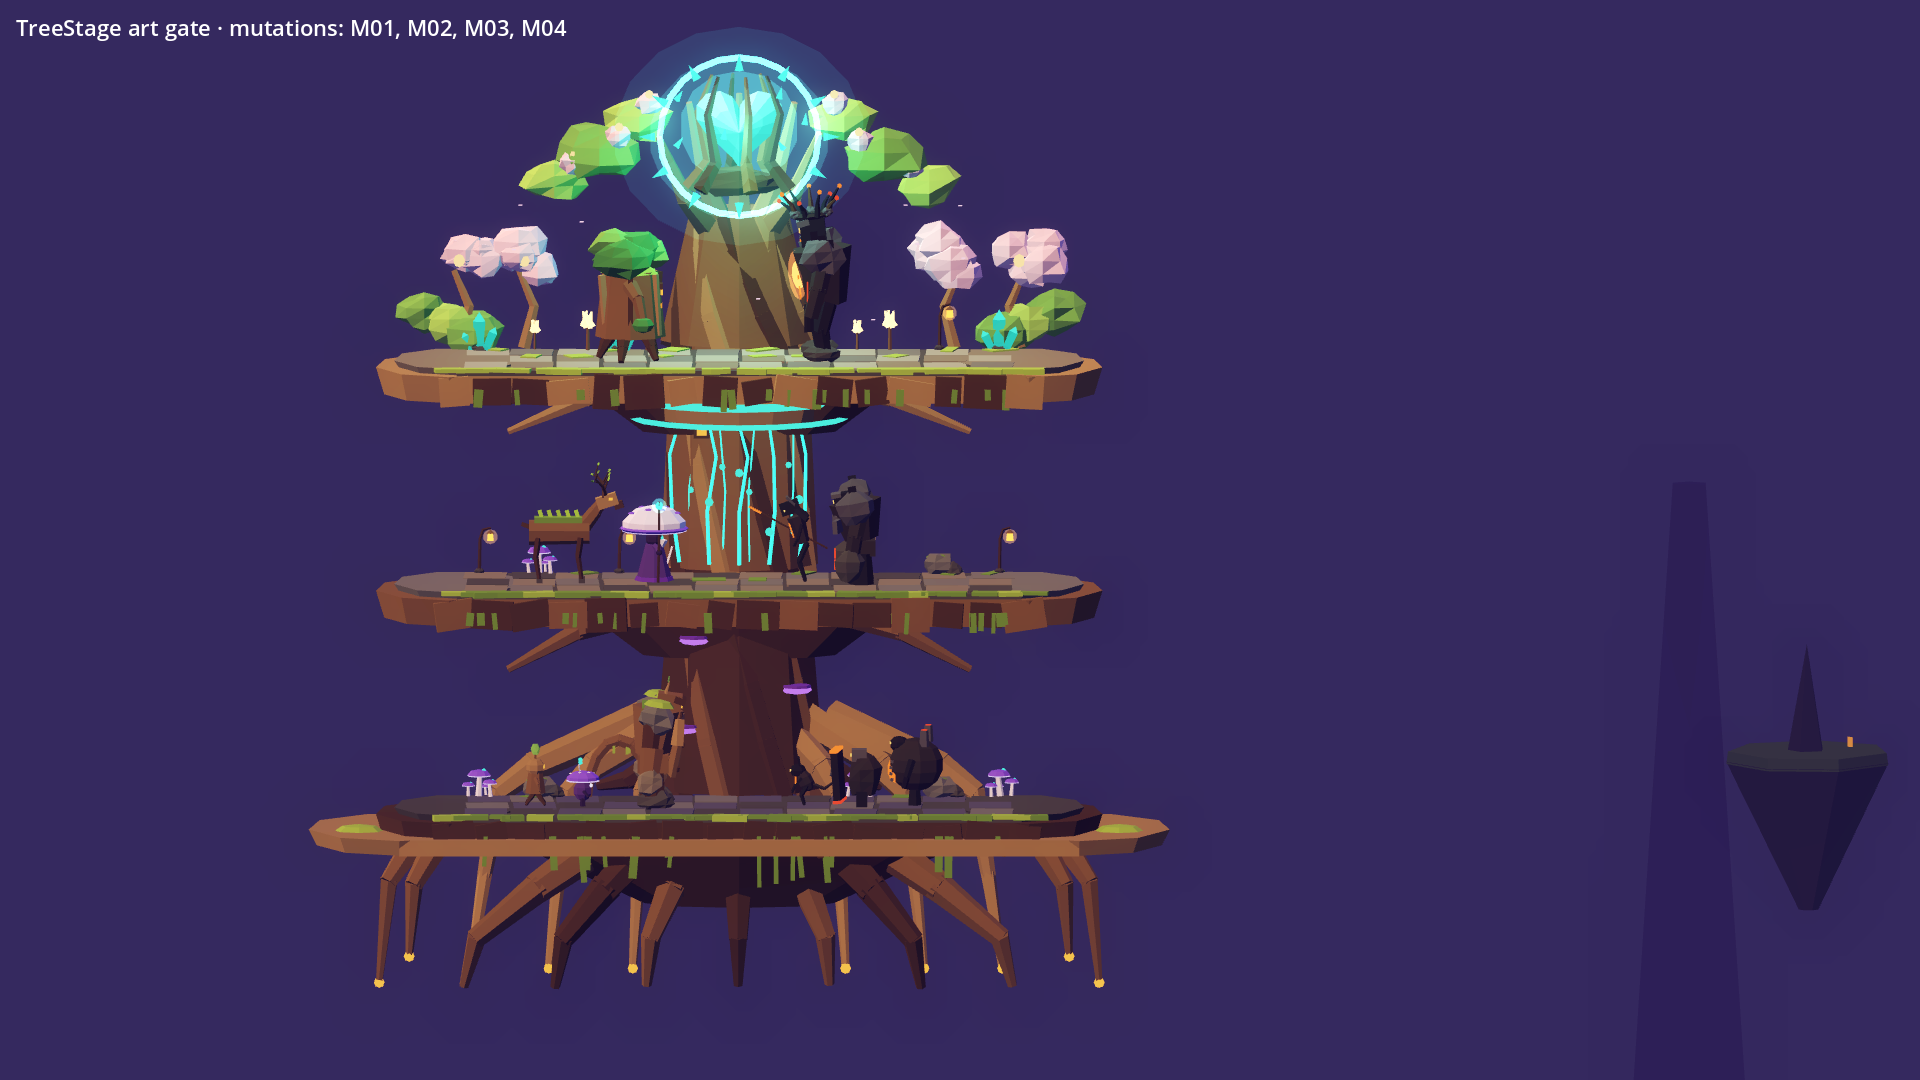
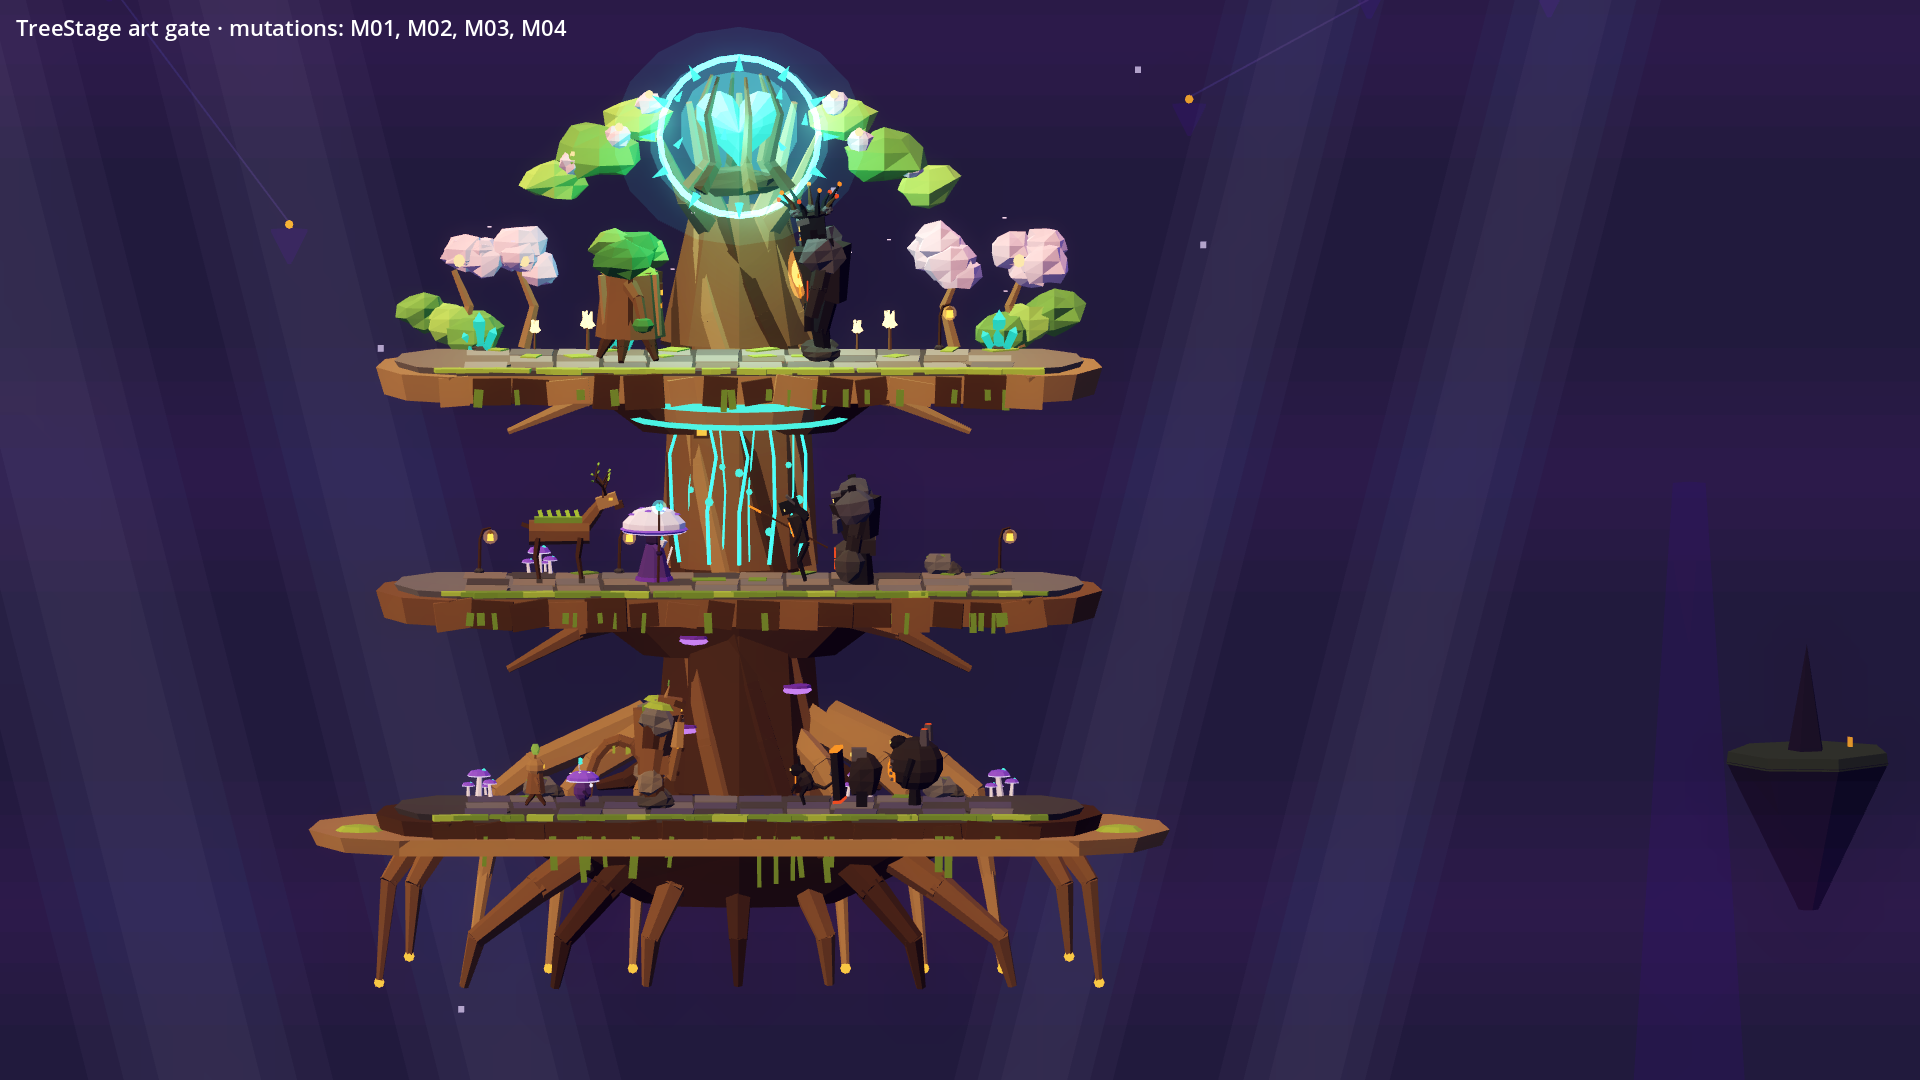
Heart health visual (set_health/hurt) and a layered battle backdrop
stage.heart roots carry HeartVisual: health bands drive cracks, halo, shards,
tint, light and pulse rate (flicker when low, none under reduced motion);
hurt() flashes the cracks red, bursts fx.heart_damage and shakes briefly.
stage.backdrop gains far route islands with tiny fog-free fires, soft light
shafts and mist bands (stacked low-alpha layers) and slow far motes; no
lights. Epilog lost now uses set_health. Heart strip scene, tests 19/19,
battle captures (1080p + portrait, boss + midbattle).

Claude-Session: https://claude.ai/code/session_014NxcUrdW69Hpwat6boxt2N

diff --git a/docs/SCENE_ASSEMBLY.md b/docs/SCENE_ASSEMBLY.md
@@ -27,6 +27,7 @@ var badge_y := VisualSlots.head_height("unit.B01")   # hp/attack-badge (2D-overl
 | `has_clip(state)` | Rig: true hvis der findes et rigtigt clip. Proxy: true for alle tilstande (proceduralt er dens clip). Manglende clip spiller stadig procedural + `finished`. |
 | `snap(state)` | Skip/load: sæt slutpose med det samme (`death` = skjult, ellers idle). |
 | `UnitAnimator.reduced_motion` (static) | Mindre udsving, ingen knockback-rotation; sæt fra settings. |
+| `heart.set_health(ratio)` / `heart.hurt(amount_ratio)` (roden af `stage.heart` har scriptet `HeartVisual`) | `set_health`: ≥ 0,66 lys og fuld halo; 0,33–0,66 få revner, lidt mørkere, langsommere puls; < 0,33 mange revner, kold tone, flimmer (ikke ved reduced motion), langsom puls, ingen halo. `hurt`: revnerne blinker rødt, `fx.heart_damage`-skår (skaleret), kort rystelse (ikke ved reduced motion), derefter tilbage til helbredstilstanden. Kald fx `heart.call("set_health", float(hp) / max_hp)` efter hver ændring. |
 | `VisualSlots.footprint_radius(slot_id) -> float` | Radius (m, 0,35–1,7) til en fod-ring; målt på det viste visual (proxy eller model), cachet, uafhængigt af facing. |
 | `VisualSlots.make("fx.ring") as TargetMarker` | Flad ring + lav lysende bånd ved fødderne (læses også fra det næsten vandrette kampkamera). `set_radius(r)`, `set_kind(k)` med `&"none"` (skjult), `&"target"` (turkis, pulserer roligt), `&"selected"` (rav, fast), `&"invalid"` (rød, dæmpet), `&"danger"` (rød puls = dør i prognosen). Ukendt kind → none. Origin = jorden; læg den ved enhedens fødder (fx barn af UnitView, ikke af den roterende VisualRoot — den er symmetrisk). |
 | `VisualSlots.make("fx.floor_target") as TargetMarker` | Strimmel langs en etages forkant, x −5,6…5,6, med svag fyldning af gulvet: `set_kind(&"none"/&"target"/&"selected")`. Placér ved `(0, floor_y, 0)`. |
@@ -40,7 +41,7 @@ var badge_y := VisualSlots.head_height("unit.B01")   # hp/attack-badge (2D-overl
 | Etager | `stage.floor_roots/trunk/crown` på y = 0 / 4,5 / 9,0. Overflade y=0 lokalt; spilbart x −5,5…+5,5; dybde 3,2 (z −1,6…+1,6). Forkanten (+Z, mod kameraet) er fri; props kun på bagkanten (z ≈ −1,45). Undersiden af Stammen/Kronen holdes bag figurerne på etagen nedenunder (z < −1,2) eller over y −0,75 lokalt, så 3,4 m bossen kan stå under. |
 | Stamme | `stage.trunk` er ét segment fra y=0 til 4,5, centreret x=0, z ≈ −3,2 (forside z ≈ −1,4 i enhedshøjde). TreeStage instancerer ét **pr. etage ved etagens y** (0 / 4,5 / 9); segmenterne fliser lodret. Barnet `StageVariant` vælger udseende efter verdenshøjden: Rødder (mørk, violette svampe), Stamme (små ravvinduer højt oppe, tynde turkise årer), Krone (stammen smalner og deler sig i grene, der omkranser hjertet, med lysegrøn løvkrone og blomster til siderne). Intet lyst objekt ved x≈0 i enhedshøjde. |
 | Hjerte | `stage.heart` (~2 m inkl. vugge, egen turkis OmniLight3D) på `(0, 12.4, −0.4)` (StageLayout.heart_pos); `fx.heart_pulse` samme sted. Har `UnitAnimator`: `idle` er en langsom puls af krystal + halo (reduced motion: næsten stille), `hit` blinker rødt. TreeStage.pulse_heart skalerer roden — det spiller sammen. |
-| Baggrund | `stage.backdrop` ved origin; alt ligger z < −15. |
+| Baggrund | `stage.backdrop` ved origin; alt ligger z < −15: mørke øer og spir, fjerne små ruteøer med varme bål (ignorerer tåge, så de glimter), bløde lysstråler og tågebånd (lagdelte lav-alpha flader), langsomme motes. Ingen lys, kun CPU-partikler. |
 | Figurer | Stå omkring z = 0 (maks. dybde ±1,0). Allierede venstre (x < 0) med `rotation_y = -90` (front mod +X), fjender højre med `+90`. Lidt mod kameraet (−115 / +115) giver 3/4-visning som i style gate. Fodaftryk langs X ≈ figurens Z-dybde: 1-plads ≤ ~0,9 m, 2-plads ≤ ~2,1 m, 3-plads ≤ ~2,6 m. |
 | Mutationer | Instancér i rammen for det, de pynter (som `TreeStage.apply_mutations`): `M01` ved `(0, 0, 0)` — bredere barkkant under Rødder-pladen (under overfladen) + tykke rødder over bagkanten og ned ad yderhjørnerne med ravspidser; `M02` ved `(0, 4.5, 0)` — tyk glødende ring højt på stammen (lokal y ≈ 3,35, over hovederne) + turkise årer; `M03` ved `(0, 9, 0)` — blomstertræer i bagerste hjørner, guldblomster på bagkanten, få drivende kronblade (14 CPU-partikler); `M04` ved hjertets position — dobbelt halo, turkis ring, 12 skår, ét ekstra lys. Ingen del går ind i spilområdet (testet) og klikflader ændres aldrig. |
 | FX | Origin = den ramte figurs fødder (dimensioneret til ~1,6 m figur; skalér med `head_height/1,8`). One-shot (`meta one_shot`, `lifetime_s`) frigør sig selv; status-loops (poison, armor, thorns, growth, heart_pulse) fjerner du selv. CPUParticles3D (virker i Compatibility/web). |
